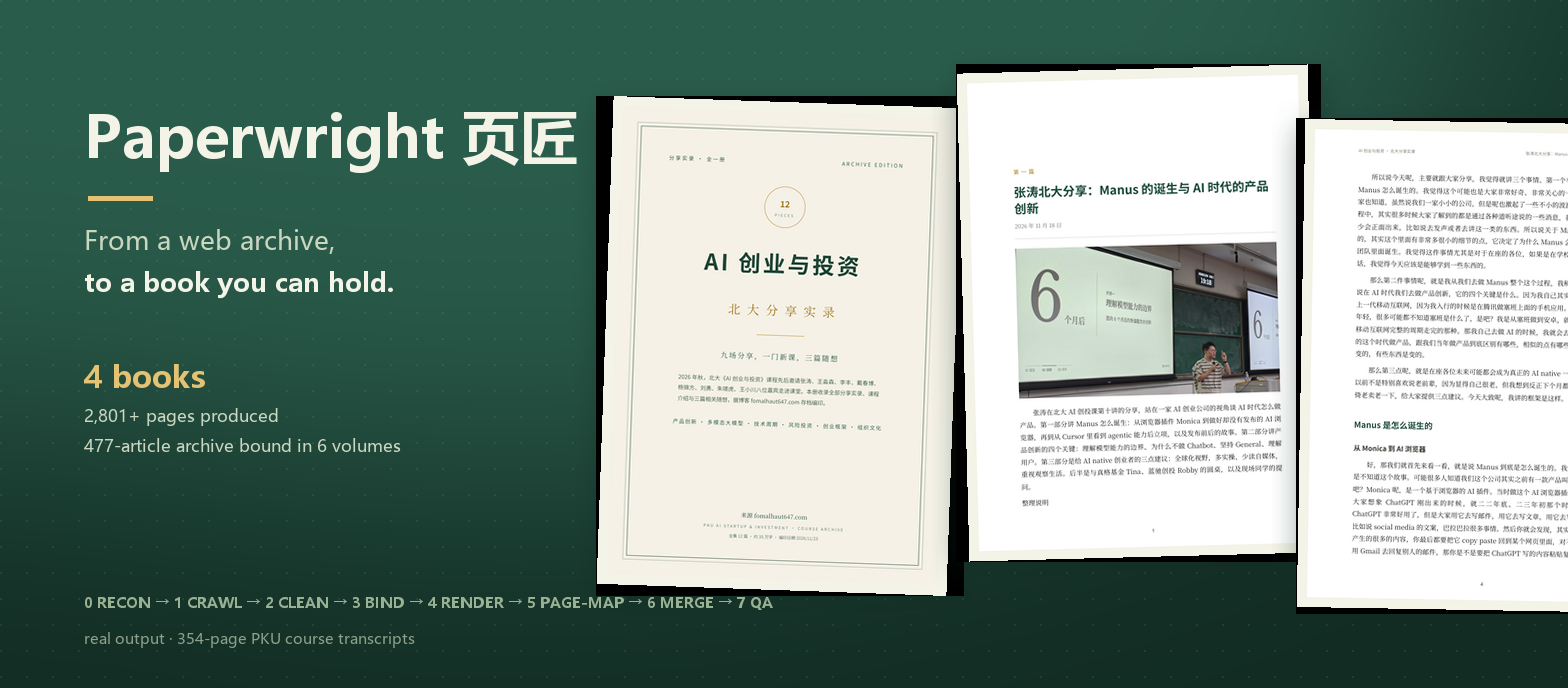
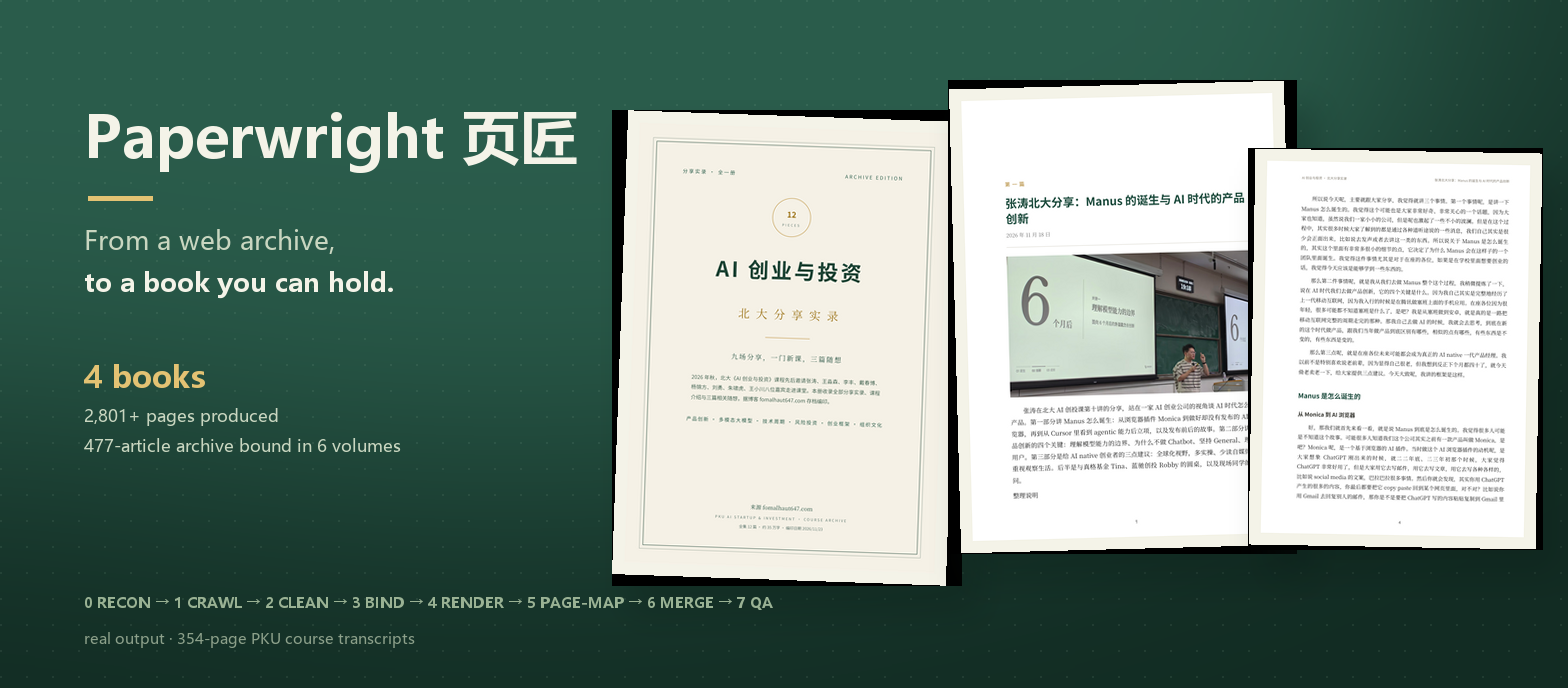
assets v2.1: fix black rotation corners (RGBA rotate), real drop shadows, staggered fit
paste_page rebuilt: transparent-corner RGBA rotation + alpha-derived blurred
shadow (offset 18/28, blur 16) for true float; pages staggered 440/440/372
so all three sit inside the frame.

Changed region(s): [[0.375, 0.0916, 1.0, 0.9157], [0.5, 0.2747, 0.5312, 0.3358], [0.4375, 0.2442, 0.4688, 0.2747]]

diff --git a/assets/make_images.py b/assets/make_images.py
@@ -43,20 +43,23 @@ def fit_h(im, h):
     return im.resize((w, h), Image.LANCZOS)
 
 def paste_page(base, im, x, y, rot=0):
-    pad = 10
+    """乳白装裱＋微旋转＋真投影（悬浮感）：RGBA 旋转透明补角，投影由卡片 alpha 生成"""
+    pad = 12
     card = Image.new('RGB', (im.width + pad * 2, im.height + pad * 2), CREAM)
     card.paste(im, (pad, pad))
     if rot:
         card = card.rotate(rot, expand=True, resample=Image.BICUBIC)
-    card_rgba = card.convert('RGBA')
-    sh = Image.new('RGBA', (card.width + 60, card.height + 60), (0, 0, 0, 0))
-    sd = ImageDraw.Draw(sh)
-    sd.rectangle([26, 34, card.width + 26, card.height + 26], fill=(0, 0, 0, 110))
-    sh = sh.filter(ImageFilter.GaussianBlur(14))
-    px, py = x - 24, y - 24
-    patch = base.crop((max(0, px), max(0, py), min(base.width, px + sh.width), min(base.height, py + sh.height)))
-    base.paste(Image.new('RGB', patch.size, INK_BG2), (max(0, px), max(0, py)), sh.crop((max(0, -px), max(0, -py), max(0, -px) + patch.width, max(0, -py) + patch.height)))
-    base.paste(card_rgba, (x, y), card_rgba)
+    card = card.convert('RGBA')
+    # 投影层：卡片 alpha → 墨绿黑 → 右下偏移 → 高斯羽化
+    alpha = card.split()[3].point(lambda v: int(v * 0.55))
+    shadow_card = Image.new('RGBA', card.size, (6, 18, 14, 255))
+    shadow_card.putalpha(alpha)
+    sh = Image.new('RGBA', base.size, (0, 0, 0, 0))
+    sh.paste(shadow_card, (x + 18, y + 28), shadow_card)
+    sh = sh.filter(ImageFilter.GaussianBlur(16))
+    base.paste(Image.new('RGB', base.size, (10, 28, 22)), (0, 0), sh)
+    # 卡片本体
+    base.paste(card, (x, y), card)
     return card.width, card.height
 
 # ================= hero.png 1568×688 =================
@@ -65,9 +68,9 @@ hero = dark_bg(W, H)
 hero = dot_grid(hero)
 d = ImageDraw.Draw(hero)
 d.text((W - 640, H - 210), 'PAPERWRIGHT', font=f(64, True), fill=INK_BG2, stroke_width=1, stroke_fill=(96, 130, 108))
-paste_page(hero, fit_h(load('cover'), 468), 596, 96, rot=-2)
-paste_page(hero, fit_h(load('opener'), 468), 956, 64, rot=1.5)
-paste_page(hero, fit_h(load('running'), 468), 1296, 118, rot=-1)
+paste_page(hero, fit_h(load('cover'), 440), 612, 110, rot=-2)
+paste_page(hero, fit_h(load('opener'), 440), 948, 80, rot=1.5)
+paste_page(hero, fit_h(load('running'), 372), 1248, 148, rot=-1)
 d.text((84, 96), 'Paperwright 页匠', font=f(58, True), fill=CREAM)
 d.rectangle([88, 196, 88 + 64, 200], fill=AMBER)
 d.text((84, 222), 'From a web archive,', font=f(26), fill=CREAM_DIM)
